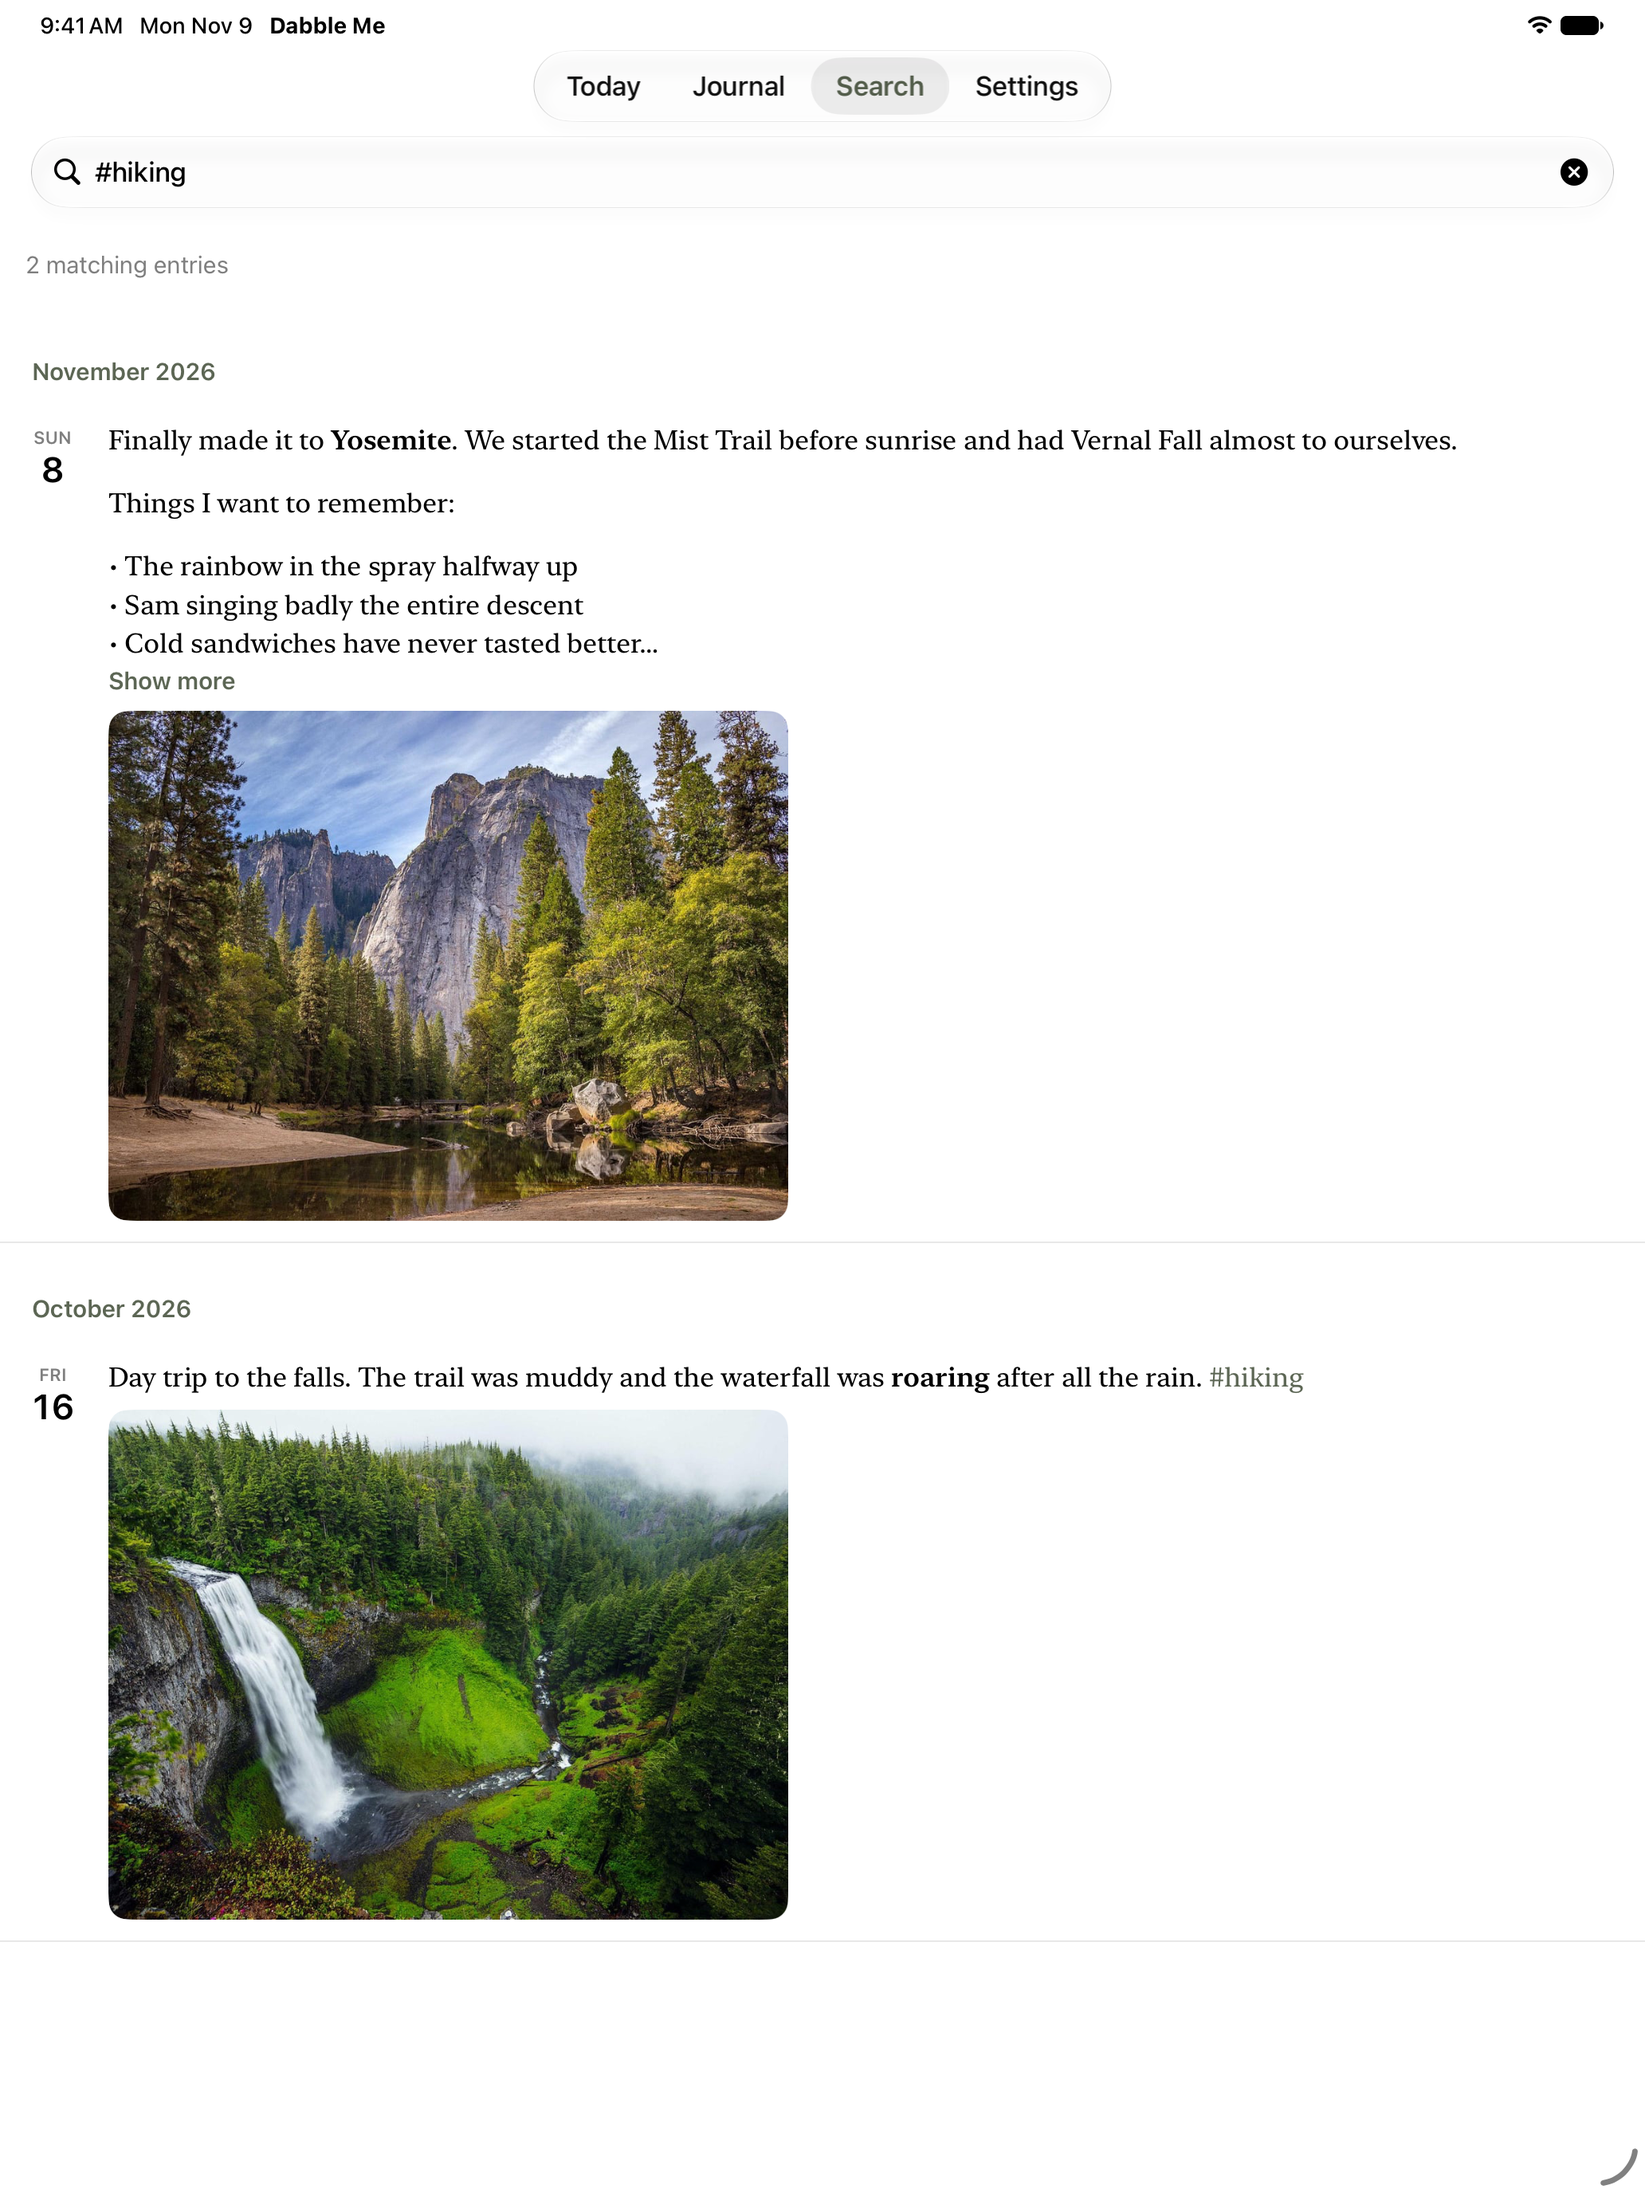
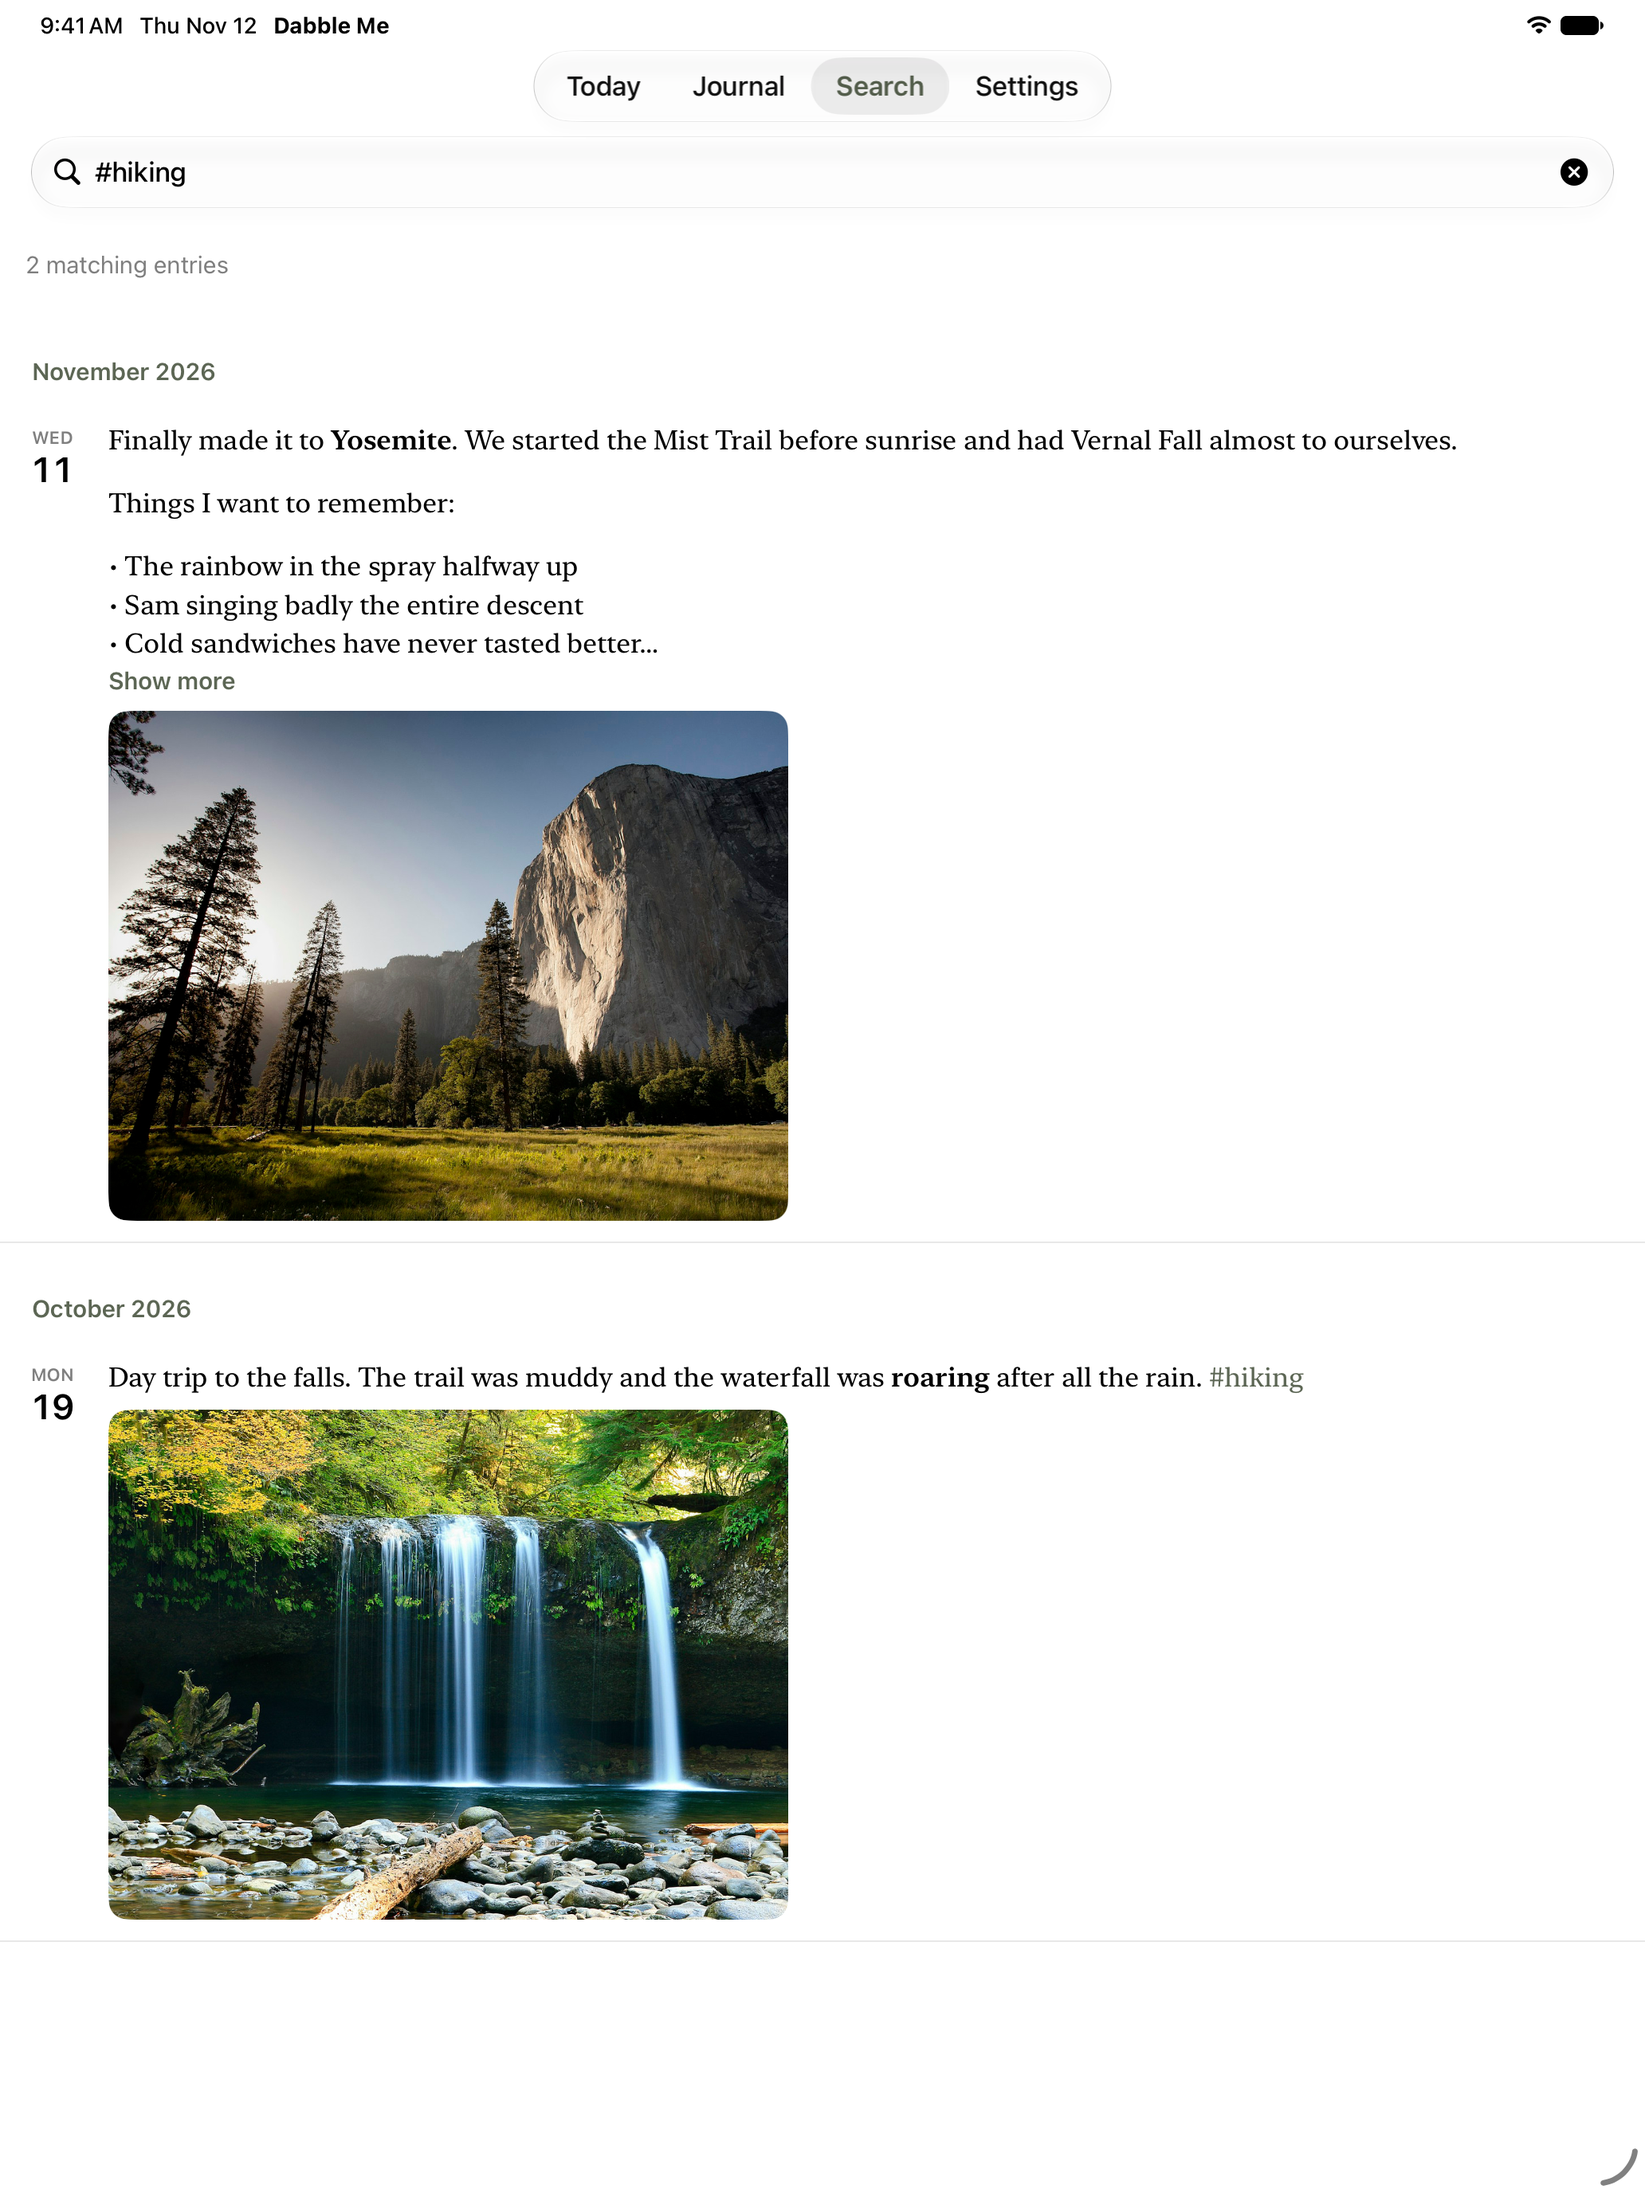
App Store screenshots for 1.1; demo photos straight from Unsplash
The demo account's photos and the screenshot test's came through picsum.photos, which is
down. The Write shot keeps the keyboard up, since the photo row sits on it.

diff --git a/ios/DabbleMeUITests/ScreenshotTests.swift b/ios/DabbleMeUITests/ScreenshotTests.swift
@@ -9,7 +9,8 @@ final class ScreenshotTests: XCTestCase {
         guard let dir = env["DABBLE_SCREENSHOT_DIR"], let token = env["DABBLE_TOKEN"] else {
             throw XCTSkip("Screenshots are opt-in: set TEST_RUNNER_DABBLE_SCREENSHOT_DIR and TEST_RUNNER_DABBLE_TOKEN")
         }
-        let photos = [1043, 1060].map { "https://picsum.photos/id/\($0)/2400/1800" }.joined(separator: ",")
+        let photos = ["1426604966848-d7adac402bff", "1442512595331-e89e73853f31"]
+            .map { "https://images.unsplash.com/photo-\($0)?w=2400&h=1800&fit=crop&fm=jpg&q=80" }.joined(separator: ",")
 
         let app = XCUIApplication()
         app.launchArguments = ["-DabbleDebugAccessToken", token, "-DabbleServerOverride", "http://localhost:3000",
@@ -63,11 +64,9 @@ final class ScreenshotTests: XCTestCase {
         } else {
             app.tap()
         }
-        // Open the photo drawer from the stack, so the shot shows the photos.
+        // Open the photo drawer from the stack, so the shot shows the photos (the bar and its
+        // rows sit on the keyboard, so the keyboard stays up).
         app.buttons["Photos"].tap()
-        // Drag the text down into the keyboard to hide it, so the whole entry shows.
-        editor.coordinate(withNormalizedOffset: CGVector(dx: 0.5, dy: 0.3))
-            .press(forDuration: 0.1, thenDragTo: app.coordinate(withNormalizedOffset: CGVector(dx: 0.5, dy: 0.98)))
         sleep(1)
         shot("04-write")
         app.buttons["Cancel"].tap()

diff --git a/ios/AppStore/metadata.md b/ios/AppStore/metadata.md
@@ -113,7 +113,7 @@ In `ios/AppStore/Screenshots/` (`iPhone 6.3in`, `iPad 13in`, and the header and 
 1. Today: the date, today's prompt, and On This Day
 2. Journal timeline with photos and month sections
 3. An entry with formatting, a list and a photo
-4. Writing an entry with the formatting bar, photos and on-device hashtag suggestions
+4. Writing an entry: the keyboard up, with its photos and the editor bar
 5. Journal > Photos
 6. Journal > Stats
 7. Search: your hashtags this year
